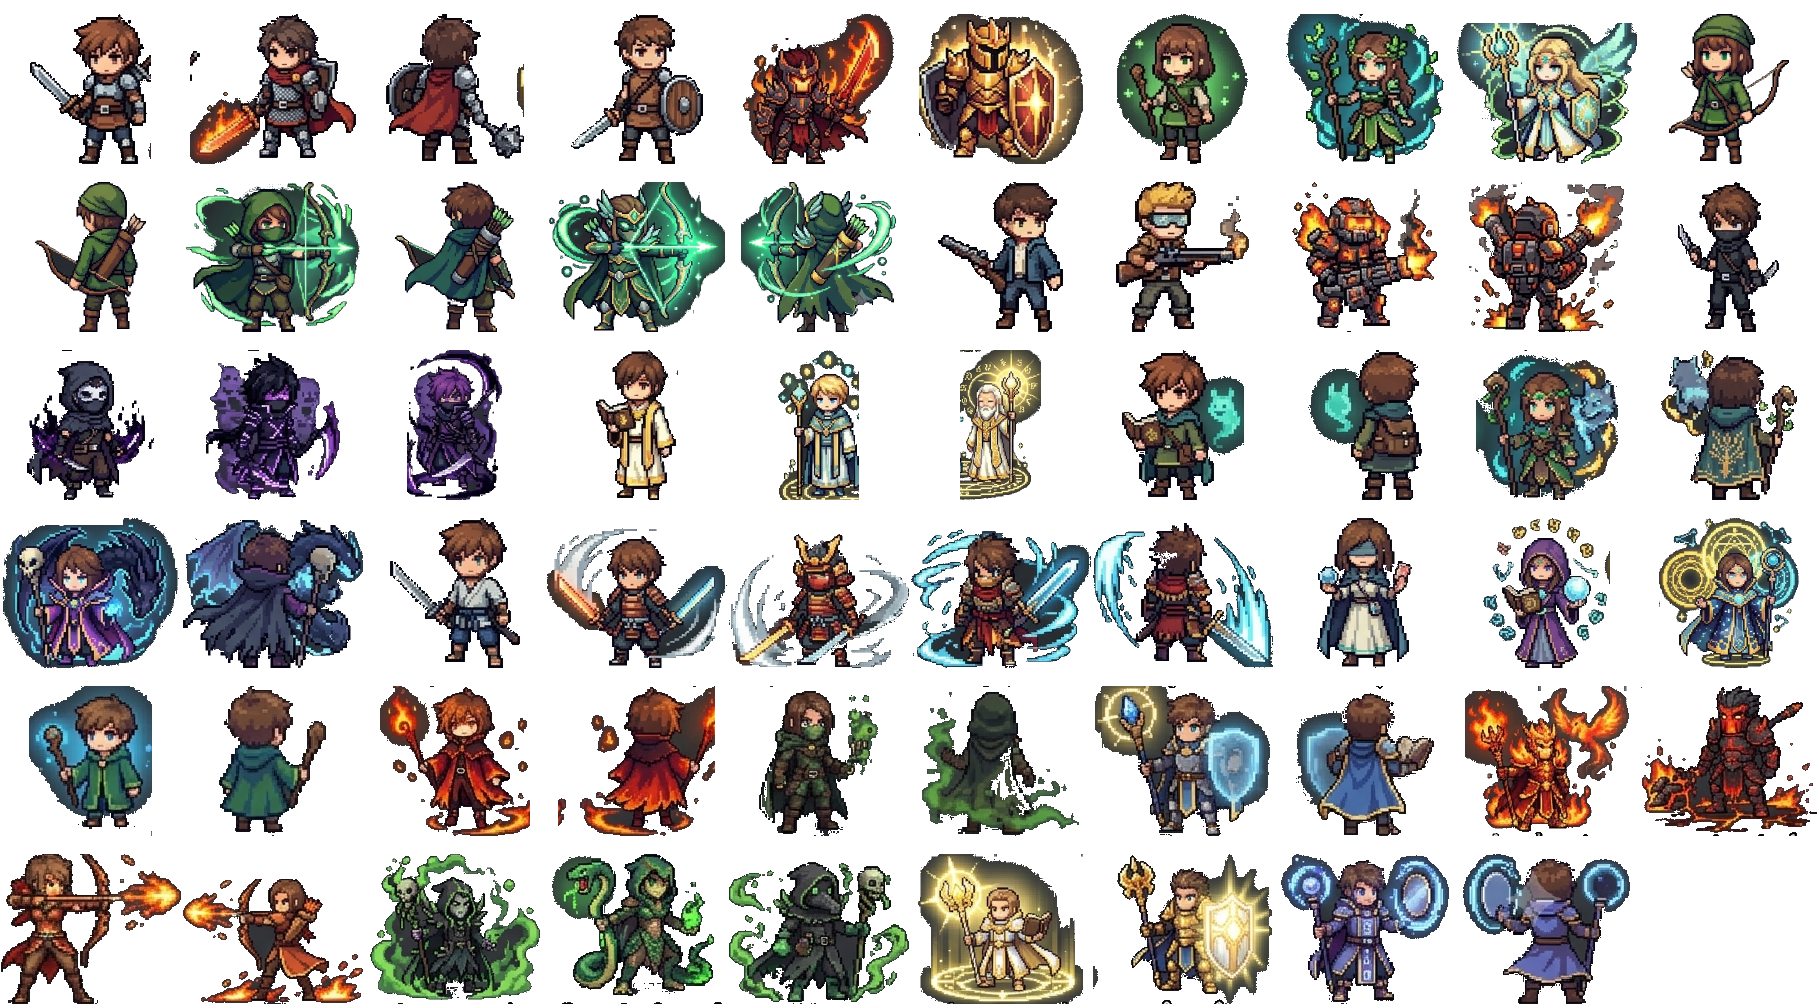
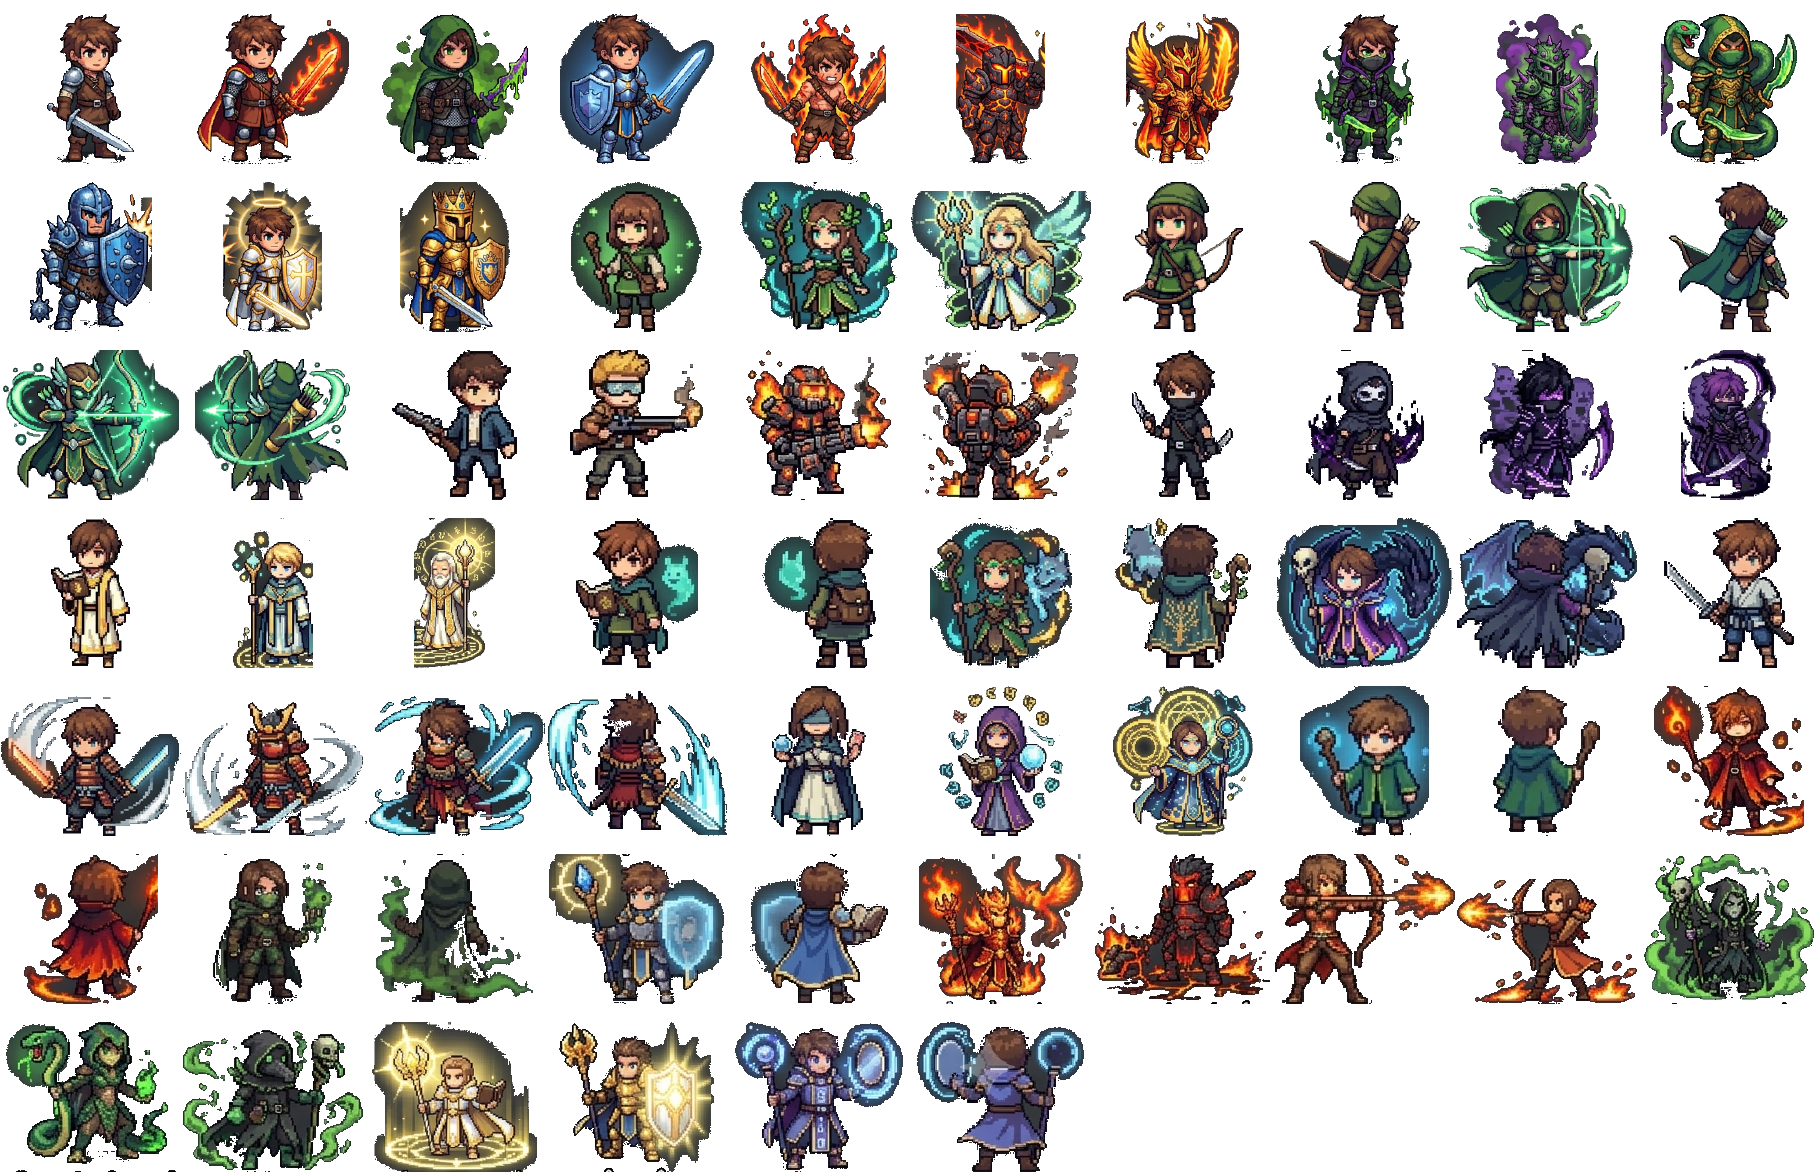
HERO ARENA: cây tiến hoá Đấu Sĩ đủ 13 hình (tạo bằng Gemini 3 Pro Image qua ElevenLabs); ảnh gốc đưa vào art-src
Claude-Session: https://claude.ai/code/session_016ef3eu5T91J6w7n9A3kRiX

diff --git a/apps/hero-arena/src/spriteMap.ts b/apps/hero-arena/src/spriteMap.ts
@@ -2,48 +2,56 @@
 // Khung hình (mặt trước f / mặt sau b) trong assets/heroes-atlas.png cho từng nút cây tiến hoá.
 export const SPRITE_MAP: Record<string, { f: number; b?: number }> = {
   "fighter:base": { f: 0 },
-  "flame_blade": { f: 1, b: 2 },
+  "flame_blade": { f: 1 },
+  "venom_blade": { f: 2 },
   "sword_shield": { f: 3 },
-  "flame_blade_def": { f: 4 },
-  "sword_shield_mst": { f: 5 },
-  "helper:base": { f: 6 },
-  "leaf_healer": { f: 7 },
-  "holy_light_mst": { f: 8 },
-  "marksman:base": { f: 9, b: 10 },
-  "wind_archer": { f: 11, b: 12 },
-  "wind_archer_mst": { f: 13, b: 14 },
-  "gunner:base": { f: 15 },
-  "fire_gunner": { f: 16 },
-  "fire_gunner_def": { f: 17 },
-  "fire_gunner_atk": { f: 18 },
-  "assassin:base": { f: 19 },
-  "shadow_blade": { f: 20 },
-  "shadow_blade_atk": { f: 21 },
-  "shadow_blade_mst": { f: 22 },
-  "support:base": { f: 23 },
-  "healer": { f: 24 },
-  "healer_mst": { f: 25 },
-  "summoner:base": { f: 26, b: 27 },
-  "beast_caller": { f: 28, b: 29 },
-  "bone_caller_mst": { f: 30, b: 31 },
-  "swordsman:base": { f: 32 },
-  "samurai": { f: 33 },
-  "samurai_def": { f: 34 },
-  "wind_sword_mst": { f: 35, b: 36 },
-  "seer:base": { f: 37 },
-  "rune_scribe": { f: 38 },
-  "star_oracle_mst": { f: 39 },
-  "mage:base": { f: 40, b: 41 },
-  "fire_mage": { f: 42, b: 43 },
-  "poison_mage": { f: 44, b: 45 },
-  "guard_mage": { f: 46, b: 47 },
-  "fire_mage_mst": { f: 48 },
-  "fire_mage_def": { f: 49 },
-  "fire_mage_atk": { f: 50, b: 51 },
-  "poison_mage_mst": { f: 52 },
-  "poison_mage_atk": { f: 53 },
-  "poison_mage_def": { f: 54 },
-  "guard_mage_mst": { f: 55 },
-  "guard_mage_def": { f: 56 },
-  "guard_mage_atk": { f: 57, b: 58 },
+  "flame_blade_atk": { f: 4 },
+  "flame_blade_def": { f: 5 },
+  "flame_blade_mst": { f: 6 },
+  "venom_blade_atk": { f: 7 },
+  "venom_blade_def": { f: 8 },
+  "venom_blade_mst": { f: 9 },
+  "sword_shield_atk": { f: 10 },
+  "sword_shield_def": { f: 11 },
+  "sword_shield_mst": { f: 12 },
+  "helper:base": { f: 13 },
+  "leaf_healer": { f: 14 },
+  "holy_light_mst": { f: 15 },
+  "marksman:base": { f: 16, b: 17 },
+  "wind_archer": { f: 18, b: 19 },
+  "wind_archer_mst": { f: 20, b: 21 },
+  "gunner:base": { f: 22 },
+  "fire_gunner": { f: 23 },
+  "fire_gunner_def": { f: 24 },
+  "fire_gunner_atk": { f: 25 },
+  "assassin:base": { f: 26 },
+  "shadow_blade": { f: 27 },
+  "shadow_blade_atk": { f: 28 },
+  "shadow_blade_mst": { f: 29 },
+  "support:base": { f: 30 },
+  "healer": { f: 31 },
+  "healer_mst": { f: 32 },
+  "summoner:base": { f: 33, b: 34 },
+  "beast_caller": { f: 35, b: 36 },
+  "bone_caller_mst": { f: 37, b: 38 },
+  "swordsman:base": { f: 39 },
+  "samurai": { f: 40 },
+  "samurai_def": { f: 41 },
+  "wind_sword_mst": { f: 42, b: 43 },
+  "seer:base": { f: 44 },
+  "rune_scribe": { f: 45 },
+  "star_oracle_mst": { f: 46 },
+  "mage:base": { f: 47, b: 48 },
+  "fire_mage": { f: 49, b: 50 },
+  "poison_mage": { f: 51, b: 52 },
+  "guard_mage": { f: 53, b: 54 },
+  "fire_mage_mst": { f: 55 },
+  "fire_mage_def": { f: 56 },
+  "fire_mage_atk": { f: 57, b: 58 },
+  "poison_mage_mst": { f: 59 },
+  "poison_mage_atk": { f: 60 },
+  "poison_mage_def": { f: 61 },
+  "guard_mage_mst": { f: 62 },
+  "guard_mage_def": { f: 63 },
+  "guard_mage_atk": { f: 64, b: 65 },
 };

diff --git a/scripts/hero-arena-atlas.py b/scripts/hero-arena-atlas.py
@@ -1,6 +1,6 @@
 """Dựng atlas nhân vật HERO ARENA từ ảnh pixel-art của chủ dự án.
 
-Chạy: python3 -I scripts/hero-arena-atlas.py <thư-mục-ảnh-gốc>
+Chạy: python3 -I scripts/hero-arena-atlas.py   (ảnh gốc trong apps/hero-arena/art-src/)
 Sinh: apps/hero-arena/src/assets/heroes-atlas.png + apps/hero-arena/src/spriteMap.ts
 Mỗi nút cây tiến hoá (Dạng 1 = "<lớp>:base", Dạng 2 = id nhánh, Dạng 3 = id tiến hoá) có
 khung mặt trước (và mặt sau nếu ảnh có). Nút chưa có ảnh: client tạm nhuộm màu hình gần nhất.
@@ -9,13 +9,14 @@ import sys, os
 from PIL import Image
 from collections import deque
 
-SRC = sys.argv[1] if len(sys.argv) > 1 else "."
 ROOT = os.path.join(os.path.dirname(os.path.abspath(__file__)), "..")
+SRC = sys.argv[1] if len(sys.argv) > 1 else os.path.join(ROOT, "apps/hero-arena/art-src")
 FILES = {
-    "A": "2a96e30a-image.png",   # Đấu Sĩ, Trợ Thủ, Pháo Thủ, Sát Thủ, Hỗ Trợ
-    "B": "ab7eb806-image.png",   # Triệu Hồi Sư, Kiếm Khách, Pháp Sư (cũ), Tiên Tri
-    "X": "ff31f323-image.png",   # Xạ Thủ
-    "M": "5d36aeff-image.png",   # cây tiến hoá Pháp Sư
+    "A": "sheet-a.png",       # Trợ Thủ, Pháo Thủ, Sát Thủ, Hỗ Trợ (ảnh chủ dự án)
+    "B": "sheet-b.png",       # Triệu Hồi Sư, Kiếm Khách, Tiên Tri (ảnh chủ dự án)
+    "X": "marksman.png",      # Xạ Thủ (ảnh chủ dự án)
+    "M": "mage-tree.png",     # cây tiến hoá Pháp Sư (ảnh chủ dự án)
+    "F": "fighter-tree.png",  # cây tiến hoá Đấu Sĩ (tạo bằng Gemini 3 Pro Image qua ElevenLabs)
 }
 IMGS = {k: Image.open(os.path.join(SRC, v)).convert("RGBA") for k, v in FILES.items()}
 
@@ -52,8 +53,40 @@ def cut(key, box, erase_grey=None):
                 r, g, b, a = px[x, y]
                 if a and max(r, g, b) - min(r, g, b) < 28 and max(r, g, b) > 55:
                     px[x, y] = (0, 0, 0, 0)
+    drop_edge_fragments(im)
     bb = im.getbbox()
     return im.crop(bb) if bb else im
+
+
+def drop_edge_fragments(im):
+    """Xoá các mảnh nhỏ chạm mép trái/phải khung (hiệu ứng của hình bên cạnh lọt vào)."""
+    W, H = im.size
+    px = im.load()
+    seen = bytearray(W * H)
+    comps = []
+    for y in range(H):
+        for x in range(W):
+            if seen[y * W + x] or px[x, y][3] == 0:
+                continue
+            q = deque([(x, y)])
+            seen[y * W + x] = 1
+            pts = []
+            while q:
+                cx, cy = q.popleft()
+                pts.append((cx, cy))
+                for nx, ny in ((cx + 1, cy), (cx - 1, cy), (cx, cy + 1), (cx, cy - 1)):
+                    if 0 <= nx < W and 0 <= ny < H and not seen[ny * W + nx] and px[nx, ny][3]:
+                        seen[ny * W + nx] = 1
+                        q.append((nx, ny))
+            comps.append(pts)
+    if not comps:
+        return
+    biggest = max(len(c) for c in comps)
+    for c in comps:
+        touches = any(x == 0 or x == W - 1 for x, _ in c)
+        if touches and len(c) < biggest * 0.25:
+            for x, y in c:
+                px[x, y] = (0, 0, 0, 0)
 
 
 def erase_label(key, rect):
@@ -70,12 +103,20 @@ erase_label("B", (390, 62, 500, 94))
 
 # nút → (ảnh, khung trước, khung sau | None)
 NODES = [
-    # Đấu Sĩ
-    ("fighter:base", "A", (18, 110, 145, 275), None),
-    ("flame_blade", "A", (145, 108, 332, 278), ("A", (176, 282, 330, 465))),
-    ("sword_shield", "A", (17, 293, 165, 460), None),
-    ("flame_blade_def", "A", (330, 60, 548, 276), None),
-    ("sword_shield_mst", "A", (330, 282, 530, 465), None),
+    # Đấu Sĩ – cây tiến hoá đầy đủ (ảnh F)
+    ("fighter:base", "F", (615, 22, 765, 222), None),
+    ("flame_blade", "F", (175, 250, 380, 458), None),
+    ("venom_blade", "F", (590, 255, 800, 458), None),
+    ("sword_shield", "F", (1040, 250, 1240, 458), None),
+    ("flame_blade_atk", "F", (0, 505, 197, 728), None),
+    ("flame_blade_def", "F", (197, 495, 335, 728), None),
+    ("flame_blade_mst", "F", (325, 495, 500, 728), None),
+    ("venom_blade_atk", "F", (495, 530, 622, 728), None),
+    ("venom_blade_def", "F", (615, 500, 765, 728), None),
+    ("venom_blade_mst", "F", (755, 530, 925, 728), None),
+    ("sword_shield_atk", "F", (918, 535, 1068, 728), None),
+    ("sword_shield_def", "F", (1060, 495, 1212, 728), None),
+    ("sword_shield_mst", "F", (1205, 530, 1376, 728), None),
     # Trợ Thủ
     ("helper:base", "A", (595, 108, 738, 276), None),
     ("leaf_healer", "A", (752, 95, 946, 276), None),
